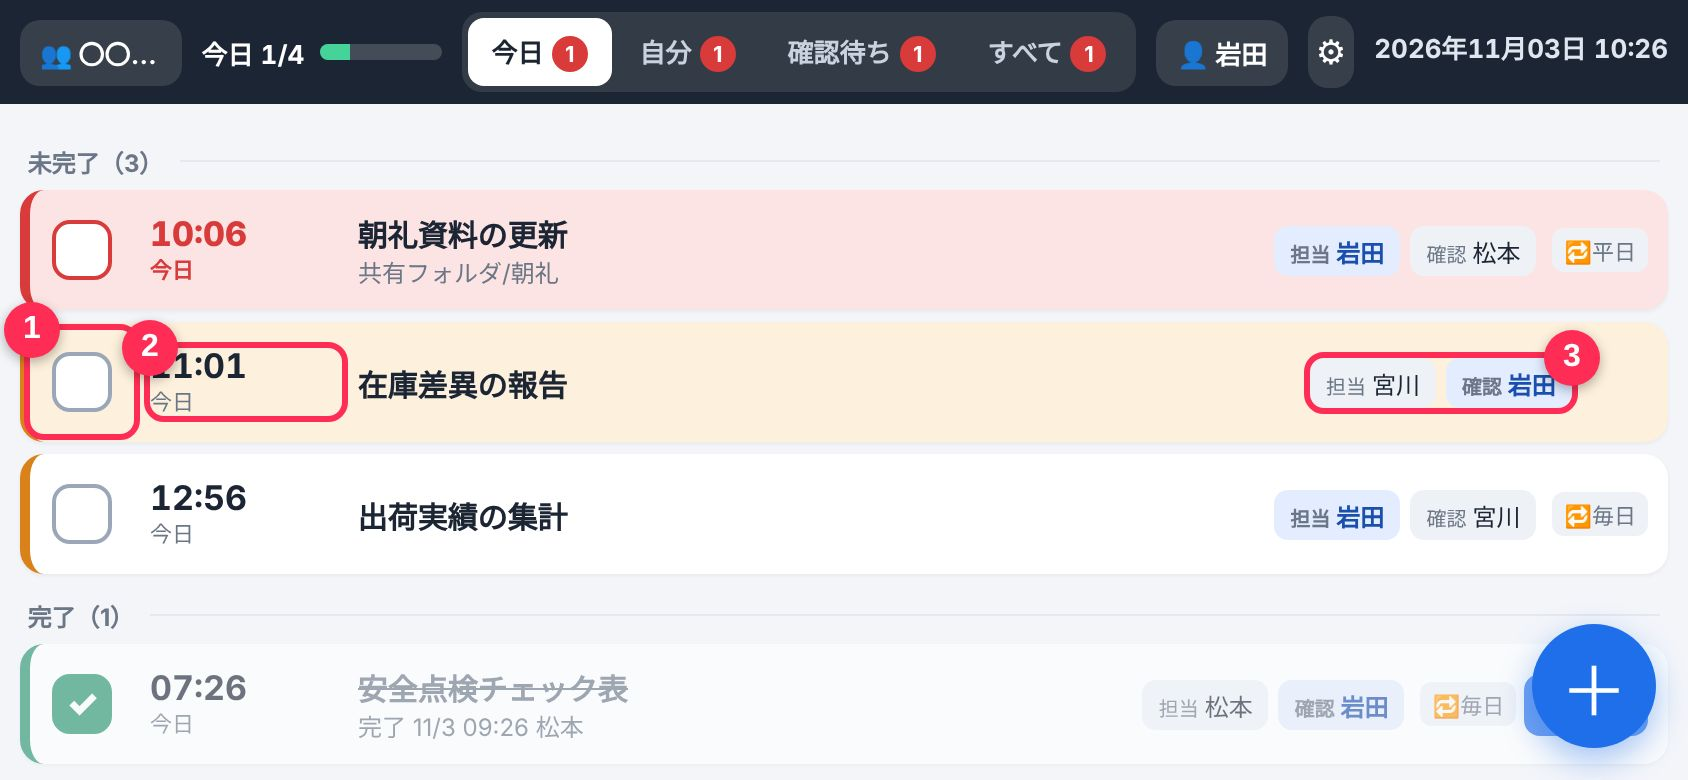
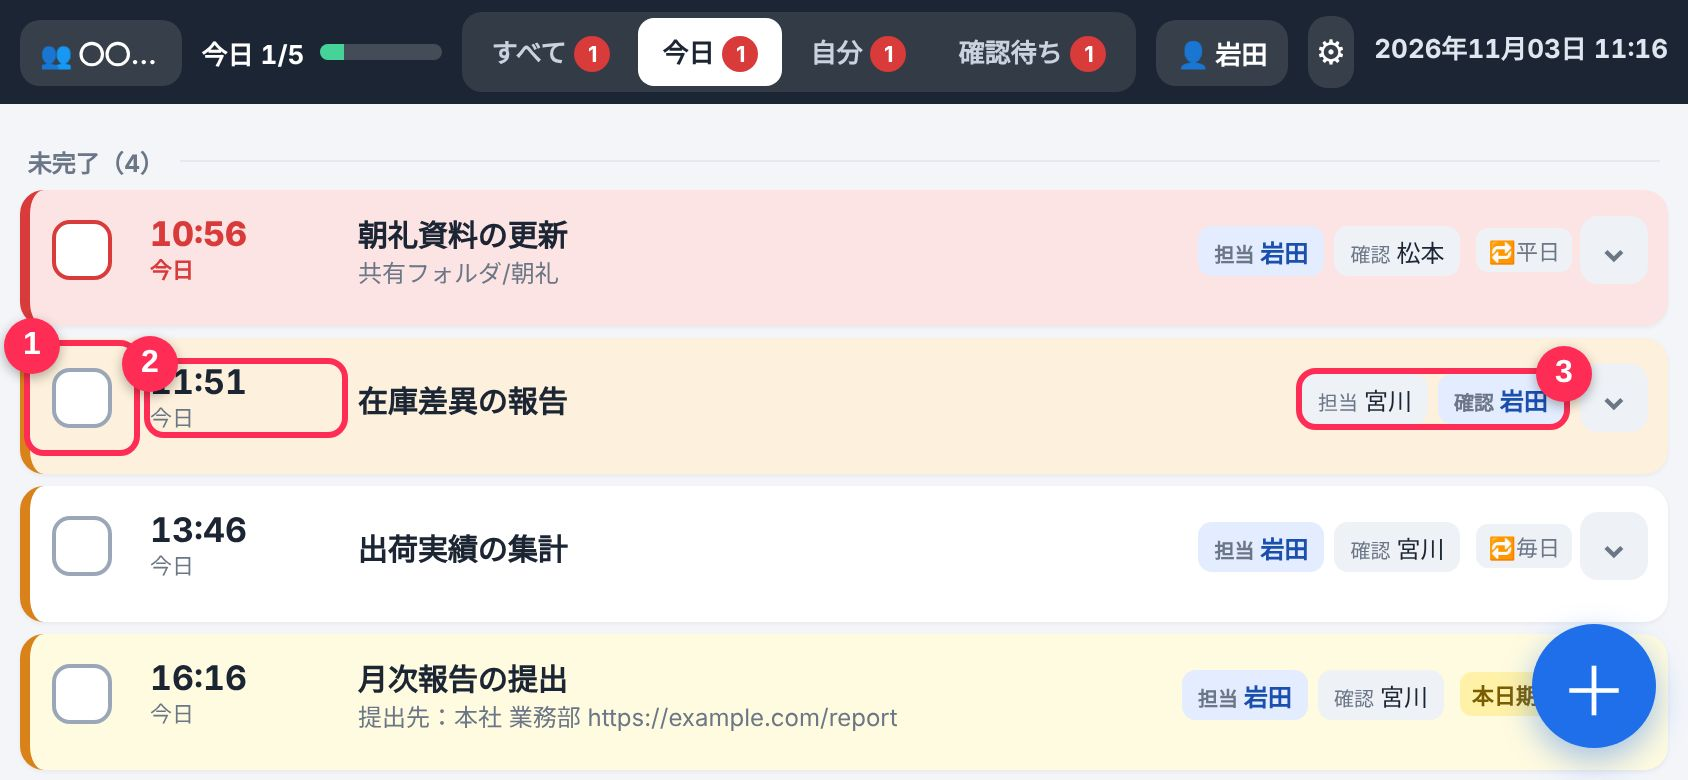
マニュアルを最新の画面に更新
Claude-Session: https://claude.ai/code/session_01CCTYimLHoh7ksLE7jkJJnQ

diff --git a/manual.html b/manual.html
@@ -78,7 +78,7 @@ footer{text-align:center;font-size:12px;color:var(--sub);margin-top:30px}
  <p>はじめての方向け・5分で使えるようになります</p>
 </div>
 <nav class="toc">
- <a href="#s1">①入れる</a><a href="#s2">②参加</a><a href="#s3">③通知ON</a><a href="#s4">④画面の見方</a><a href="#s5">⑤追加</a><a href="#s6">⑥完了</a><a href="#s7">⑦赤い警告</a><a href="#s8">⑧確認</a><a href="#s9">⑨招待・切替</a><a href="#faq">困ったら</a>
+ <a href="#s1">①入れる</a><a href="#s2">②参加</a><a href="#s3">③通知ON</a><a href="#s4">④画面の見方</a><a href="#s5">⑤追加</a><a href="#s6">⑥完了</a><a href="#s7">⑦警告</a><a href="#s8">⑧確認</a><a href="#s9">⑨招待・切替</a><a href="#faq">困ったら</a>
 </nav>
 <main>
 
@@ -148,7 +148,7 @@ footer{text-align:center;font-size:12px;color:var(--sub);margin-top:30px}
   <img class="shot p" src="manual/list-p.jpg" alt="一覧（縦）">
   <ol class="k">
    <li><b class="m">1</b><span>今のチーム名（押すと切り替え）</span></li>
-   <li><b class="m">2</b><span>表示の切り替え：<b>今日</b>／<b>自分</b>（自分の担当・確認）／<b>確認待ち</b>／<b>すべて</b>　赤い数字は要対応の件数</span></li>
+   <li><b class="m">2</b><span>表示の切り替え：<b>すべて</b>／<b>今日</b>／<b>自分</b>（自分の担当・確認）／<b>確認待ち</b>　赤い数字は要対応の件数</span></li>
    <li><b class="m">3</b><span>タスクを追加</span></li>
   </ol>
  </div>
@@ -157,10 +157,13 @@ footer{text-align:center;font-size:12px;color:var(--sub);margin-top:30px}
   <img class="shot" src="manual/list-l.jpg" alt="一覧（横）">
   <ol class="k">
    <li><b class="m">1</b><span>チェック欄（押すと完了）</span></li>
-   <li><b class="m">2</b><span>期限　<span style="background:#fde4e4;padding:0 4px;border-radius:4px">赤</span>＝期限切れ　<span style="background:#fdf0dc;padding:0 4px;border-radius:4px">オレンジ</span>＝1時間以内</span></li>
+   <li><b class="m">2</b><span>期限　<span style="background:#fde4e4;padding:0 4px;border-radius:4px">赤</span>＝期限切れ　<span style="background:#fdf0dc;padding:0 4px;border-radius:4px">オレンジ</span>＝1時間以内　<span style="background:#fffbe0;padding:0 4px;border-radius:4px">黄色</span>＝前もって登録した「今日が期限」</span></li>
    <li><b class="m">3</b><span>担当者と確認者（自分は青色）</span></li>
   </ol>
   <img class="shot" style="margin-top:12px" src="manual/future.jpg" alt="先の予定">
+  <p style="font-size:14px;margin-top:8px">右端の <b style="display:inline-flex;width:24px;height:24px;border-radius:7px;background:#eef1f6;align-items:center;justify-content:center">⌄</b> を押すと、下に詳細が開きます。</p>
+  <img class="shot" style="margin-top:10px" src="manual/detail.jpg" alt="詳細の展開">
+  <ol class="k"><li><b class="m">1</b><span>⌄ を押すと開く／もう一度押すと閉じる</span></li><li><b class="m">2</b><span>メモ・期限・作成者などの詳細（URLは押すと開けます）。「編集する」で変更</span></li></ol>
   <p style="font-size:14px;margin-top:8px"><b class="m" style="display:inline-flex;width:22px;height:22px;border-radius:50%;background:var(--red);color:#fff;font-size:12px;align-items:center;justify-content:center">1</b> 今日以外のタスクは <b>日付</b> と <b style="color:var(--main)">あと○日</b> で表示されます。</p>
  </div>
 </section>
@@ -176,7 +179,7 @@ footer{text-align:center;font-size:12px;color:var(--sub);margin-top:30px}
    <li><b class="m">2</b><span>担当者（やる人）</span></li>
    <li><b class="m">3</b><span>確認者（チェックする人）</span></li>
    <li><b class="m">4</b><span>期限日</span></li>
-   <li><b class="m">5</b><span>警告までの時間：<b>30分後／1時間後／3時間後</b>に赤い警告。警告がいらなければ<b>「不要」</b></span></li>
+   <li><b class="m">5</b><span>警告までの時間：<b>30分後／1時間後／3時間後</b>に赤い警告。警告がいらなければ<b>「不要」</b><br>※明日以降の日付を選ぶと<b>9:00／12:00／15:00／17:00</b>の時刻選択に変わります</span></li>
    <li><b class="m">6</b><span>最後に「保存」</span></li>
   </ol>
  </div>
@@ -202,7 +205,12 @@ footer{text-align:center;font-size:12px;color:var(--sub);margin-top:30px}
 
 <!-- 7 -->
 <section id="s7">
- <h2><span class="n">7</span>赤い警告が出たら</h2>
+ <h2><span class="n">7</span>黄色のお知らせ・赤い警告</h2>
+ <div class="card">
+  <p class="lead">前もって登録したタスクは、<b>期限の日</b>になると黄色でお知らせします（朝8時に通知、アプリを開いた時にも表示）。</p>
+  <img class="shot" src="manual/mild.jpg" alt="黄色のお知らせ">
+  <p class="cap" style="margin-top:6px">確認したら <b>「OK」</b></p>
+ </div>
  <div class="card">
   <p class="lead">警告の時間を過ぎると…</p>
   <div class="lock"><div class="t">10:06</div>
@@ -226,8 +234,9 @@ footer{text-align:center;font-size:12px;color:var(--sub);margin-top:30px}
   <div class="noti"><img src="icon-192.png" alt=""><div><b>✅ 確認依頼：在庫差異の報告</b>宮川さんが完了しました。確認をお願いします</div></div>
   <img class="shot" style="margin-top:14px" src="manual/check.jpg" alt="確認待ち">
   <ol class="k">
-   <li><b class="m">1</b><span>「確認待ち」タブを開く</span></li>
-   <li><b class="m">2</b><span>内容を確かめて「確認OK」</span></li>
+   <li><b class="m">1</b><span>「確認待ち」タブを開く（確認待ちは<b style="color:var(--ok)">緑色</b>で表示）</span></li>
+   <li><b class="m">2</b><span>「自分が確認者」／「すべて」（チーム全員分）を切り替え</span></li>
+   <li><b class="m">3</b><span>内容を確かめて「確認OK」</span></li>
   </ol>
  </div>
 </section>
